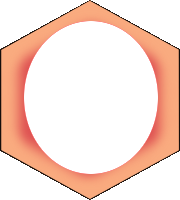
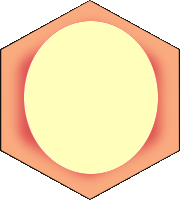
ミニマップボックスの修正
ミニマップボックスの描画を縮小表示する方法からミニマップ用の別の画像を描画する方法に変更
ユニット（味方ユニットが白丸で敵ユニットが茶色丸）を描画

diff --git a/cellgame/Map.cs b/cellgame/Map.cs
@@ -48,36 +48,47 @@ namespace CommonPart {
             }
         }
         // ミニマップの描画
-        public void DrawMinimap(Drawing d, Vector camera, int Scale, Depth depth, int sizeX, int sizeY, Vector position)
+        public void DrawMinimap(Drawing d, UnitManager um, Vector camera, Depth depth, Depth depth2, int sizeX, int sizeY, Vector position)
         {
-            for (int i = Math.Max(0, (int)(camera.X - DataBase.HexWidth * 3 / 2 * DataBase.MapScale[Scale]) / DataBase.HexWidth); i < DataBase.MAP_MAX && ((DataBase.HexWidth * i - camera.X) * DataBase.MapScale[Scale] - DataBase.HexWidth * 3 / 2 * DataBase.MapScale[Scale] <= sizeX); i++)
+            const int mini_hexwidth = 18, mini_hexheight = 20;
+            for (int i = Math.Max(0, (int)(camera.X - mini_hexwidth * 3 / 2) / DataBase.HexWidth - 1); i < DataBase.MAP_MAX && ((DataBase.HexWidth * i - camera.X) * DataBase.MapScale[0] - mini_hexwidth * 3 / 2 <= sizeX); i++)
             {
-                for (int j = Math.Max(0, (int)(camera.Y - DataBase.HexHeight * DataBase.MapScale[Scale]) / (DataBase.HexHeight * 3 / 4)); j < DataBase.MAP_MAX && (DataBase.HexHeight * 3 / 4 * j - camera.Y) * DataBase.MapScale[Scale] <= sizeY; j++)
+                for (int j = Math.Max(0, (int)(camera.Y - mini_hexheight) / (DataBase.HexHeight * 3 / 4)); j < DataBase.MAP_MAX && (DataBase.HexHeight * 3 / 4 * j - camera.Y) * DataBase.MapScale[0] <= sizeY; j++)
                 {
-                    Vector drawp = DataBase.WhereDisp(i, j, camera, Scale);
-                    Rectangle rect = new Rectangle(0, 0, DataBase.HexWidth, DataBase.HexHeight);
+                    Vector drawp = DataBase.WhereDisp(i, j, camera, 0);
+                    Rectangle rect = new Rectangle(0, 0, mini_hexwidth, mini_hexheight);
                     if (drawp.X < 0)
                     {
-                        rect.X = Math.Min((int)(-drawp.X / DataBase.MapScale[Scale]), rect.Width);
+                        rect.X = Math.Min((int)(-drawp.X), rect.Width);
                         rect.Width -= rect.X;
                     }
-                    if (drawp.X > sizeX - DataBase.HexWidth * DataBase.MapScale[Scale])
+                    if (drawp.X > sizeX - mini_hexwidth)
                     {
-                        rect.Width = Math.Max((int)((sizeX - drawp.X) / DataBase.MapScale[Scale]) - rect.X, 0);
+                        rect.Width = Math.Max((int)((sizeX - drawp.X)) - rect.X, 0);
                     }
-                    drawp.X += rect.X * DataBase.MapScale[Scale];
+                    drawp.X += rect.X;
                     if (drawp.Y < 0)
                     {
-                        rect.Y = Math.Min((int)(-drawp.Y / DataBase.MapScale[Scale]), rect.Height);
+                        rect.Y = Math.Min((int)(-drawp.Y), rect.Height);
                         rect.Height -= rect.Y;
                     }
-                    if (drawp.Y > sizeY - DataBase.HexHeight * DataBase.MapScale[Scale])
+                    if (drawp.Y > sizeY - mini_hexheight)
                     {
-                        rect.Height = Math.Max((int)((sizeY - drawp.Y) / DataBase.MapScale[Scale]) - rect.Y, 0);
+                        rect.Height = Math.Max((int)((sizeY - drawp.Y)) - rect.Y, 0);
                     }
-                    drawp.Y += rect.Y * DataBase.MapScale[Scale];
+                    drawp.Y += rect.Y;
                     if (rect.Width > 0 && rect.Height > 0)
-                        d.Draw(new Vector(position.X + drawp.X, position.Y + drawp.Y), DataBase.hex_tex[Data[i, j]], rect, depth, (float)DataBase.MapScale[Scale]);
+                    {
+                        d.Draw(new Vector(position.X + drawp.X, position.Y + drawp.Y), DataBase.mini_hex_tex[Data[i, j]], rect, depth);
+                        if (um.FindType(i, j) > 0)
+                        {
+                            d.Draw(new Vector(position.X + drawp.X, position.Y + drawp.Y), DataBase.miniUnit_tex[0], rect, depth2);
+                        }
+                        else if (um.FindType(i, j) < 0)
+                        {
+                            d.Draw(new Vector(position.X + drawp.X, position.Y + drawp.Y), DataBase.miniUnit_tex[1], rect, depth2);
+                        }
+                    }
                 }
             }
         }

diff --git a/cellgame/Scenes/PlayScene.cs b/cellgame/Scenes/PlayScene.cs
@@ -14,9 +14,8 @@ namespace CommonPart {
     class PlayScene : Scene {
         #region Variable
         // ボックスウィンドウ（ユニットボックスとか）
-        ArrangeBar arrangeBar;
+        ProductArrangeBar proarrBar;
         MinimapBox minimapBox;
-        ProductBox productBox;
         StatusBar statusBar;
         StudyBar studyBar;
         UnitBox unitBox;
@@ -74,8 +73,7 @@ namespace CommonPart {
             unitBox = new UnitBox();
             minimapBox = new MinimapBox();
             statusBar = new StatusBar(studyPower, PP, maxPP, leftUnit, bodyTemp);
-            arrangeBar = new ArrangeBar();
-            productBox = new ProductBox();
+            proarrBar = new ProductArrangeBar();
         }
 
         // 画面上の座標(x, y)がどのへクスの上にあるか どのへクスの上にもなければ(0, -1)を返す バーの上にある場合は(-1, 0)を返す
@@ -85,8 +83,7 @@ namespace CommonPart {
                 unitBox.IsOn(x, y) ||
                 minimapBox.IsOn(x, y) ||
                 statusBar.IsOn(x, y) ||
-                arrangeBar.IsOn(x, y) ||
-                productBox.IsOn(x, y)) return new PAIR(-1, 0);
+                proarrBar.IsOn(x, y)) return new PAIR(-1, 0);
             
             for (int i = 0; i < DataBase.MAP_MAX; i++)
                 for (int j = 0; j < DataBase.MAP_MAX; j++)
@@ -148,11 +145,10 @@ namespace CommonPart {
             um.Draw(d, Camera, Scale);
             // それぞれのバーの描画
             studyBar.Draw(d);
-            minimapBox.Draw(d, nMap, Camera, Scale);
+            minimapBox.Draw(d, um, nMap, Camera, Scale);
             statusBar.Draw(d);
-            arrangeBar.Draw(d);
+            proarrBar.Draw(d);
             unitBox.Draw(d);
-            productBox.Draw(d);
         }
         public override void SceneUpdate() {
             // 現在のマウスの状態を取得
@@ -176,14 +172,13 @@ namespace CommonPart {
             unitBox.Update(um, nMap, this, pstate, state);
             minimapBox.Update();
             statusBar.Update(studyPower, PP, maxPP, leftUnit, bodyTemp);
-            arrangeBar.Update();
-            productBox.Update();
+            proarrBar.Update(pstate, state);
 
             // ユニットの更新
             um.Update(unitBox);
 
             // カーソルの形状を変化
-            if (unitBox.IsOnButton(state.X, state.Y) || arrangeBar.IsOnButton(state.X, state.Y) || productBox.IsOnButton(state.X, state.Y))
+            if (unitBox.IsOnButton(state.X, state.Y) || proarrBar.IsOnButton(state.X, state.Y))
                 System.Windows.Forms.Cursor.Current = System.Windows.Forms.Cursors.Hand;
             else
                 System.Windows.Forms.Cursor.Current = System.Windows.Forms.Cursors.Arrow;

diff --git a/cellgame/Boxes/ProductArrangeBar.cs b/cellgame/Boxes/ProductArrangeBar.cs
@@ -1,0 +1,57 @@
+using System;
+using System.Collections.Generic;
+using System.Linq;
+using System.Text;
+using System.Threading.Tasks;
+using Microsoft.Xna.Framework;
+using Microsoft.Xna.Framework.Input;
+
+namespace CommonPart
+{
+    class ProductArrangeBar : WindowBar
+    {
+        #region Variable
+        ProductBox productBox;
+        ArrangeBox arrangeBox;
+        #endregion
+        #region Method
+        public ProductArrangeBar()
+            : base(DataBase.BarPos[4], DataBase.BarWidth[4], DataBase.BarHeight[4]) {
+            productBox = new ProductBox();
+            arrangeBox = new ArrangeBox();
+        }
+        public void Update(MouseState pstate, MouseState state)
+        {
+            base.Update();
+            if(pstate.LeftButton == ButtonState.Released && state.LeftButton == ButtonState.Pressed)
+            {
+                if (state.X >= windowPosition.X && state.X <= windowPosition.X +width / 2 * 16 && state.Y >= windowPosition.Y && state.Y <= windowPosition.Y + height * 16)
+                {// 左のボタンをクリック
+                    productBox.Show();
+                    arrangeBox.Hide();
+                }
+                else if(state.X >= windowPosition.X + width / 2 * 16 && state.X <= windowPosition.X + width * 16 && state.Y >= windowPosition.Y && state.Y <= windowPosition.Y + height * 16)
+                {// 右のボタンをクリック
+                    arrangeBox.Show();
+                    productBox.Hide();
+                }
+                else if (!IsOn(state.X, state.Y))
+                {
+                    arrangeBox.Hide();
+                    productBox.Hide();
+                }
+            }
+        }
+        public override bool IsOn(int x, int y)
+        {
+            return base.IsOn(x, y) || productBox.IsOn(x, y) || arrangeBox.IsOn(x, y);
+        }
+        public override void Draw(Drawing d)
+        {
+            base.Draw(d);
+            productBox.Draw(d);
+            arrangeBox.Draw(d);
+        }
+        #endregion
+    }// class end
+}// namespace end

diff --git a/cellgame/Boxes/MinimapBox.cs b/cellgame/Boxes/MinimapBox.cs
@@ -14,7 +14,7 @@ namespace CommonPart
         #region Method
         public MinimapBox()
             : base(DataBase.BarPos[2], DataBase.BarWidth[2], DataBase.BarHeight[2]) { }
-        public void Draw(Drawing d, Map nMap, Vector Camera, int Scale)
+        public void Draw(Drawing d, UnitManager um, Map nMap, Vector Camera, int Scale)
         {
             // ボックスの背景の表示
             base.Draw(d);
@@ -22,14 +22,14 @@ namespace CommonPart
             // ボックスの中身の表示
             if (showing)
             {
-                int sizeX = width * 16 - 19, sizeY = height * 16 - 4;
-                Vector dposition = new Vector(windowPosition.X + 17, windowPosition.Y + 2);
+                int sizeX = width * 16 - 19, sizeY = height * 16 - 5;
+                Vector dposition = new Vector(windowPosition.X + 17, windowPosition.Y + 3);
                 Vector dcamera = new Vector(Camera.X + Game1._WindowSizeX / DataBase.MapScale[Scale] / 2 - sizeX / DataBase.MapScale[0] / 2,
                                          Camera.Y + Game1._WindowSizeY / DataBase.MapScale[Scale] / 2 - sizeY / DataBase.MapScale[0] / 2);
-                nMap.DrawMinimap(d, dcamera, 0, DepthID.StateFront, sizeX, sizeY, dposition);
+                nMap.DrawMinimap(d, um, dcamera, DepthID.StateFront, DepthID.Message, sizeX, sizeY, dposition);
 
                 BoxFrame bf = new BoxFrame(new Vector(Game1._WindowSizeX / DataBase.MapScale[Scale] * DataBase.MapScale[0], Game1._WindowSizeY / DataBase.MapScale[Scale] * DataBase.MapScale[0]), Color.Black);
-                bf.Draw(d, dposition + new Vector((Camera.X - dcamera.X) * DataBase.MapScale[0], (Camera.Y - dcamera.Y) * DataBase.MapScale[0]), DepthID.Message);
+                bf.Draw(d, dposition + new Vector((Camera.X - dcamera.X) * DataBase.MapScale[0], (Camera.Y - dcamera.Y) * DataBase.MapScale[0]), DepthID.Effect);
             }
         }
         public override void Update()

diff --git a/cellgame/Game1.cs b/cellgame/Game1.cs
@@ -74,9 +74,12 @@ namespace CommonPart
             spriteBatch = new SpriteBatch(GraphicsDevice);
 
             // へクス画像の読み込み
+            DataBase.mini_hex_tex = new List<Texture2D>();
             DataBase.hex_tex = new List<Texture2D>();
             for (int i = 0; i < 5; i++)
                 DataBase.hex_tex.Add(Content.Load<Texture2D>(string.Format("hex/hex{0}.png", i)));
+            for (int i = 0; i < 5; i++)
+                DataBase.mini_hex_tex.Add(Content.Load<Texture2D>(string.Format("hex/mini_hex{0}.png", i)));
 
             // 選択されたへクスの画像の読み込み
             DataBase.select_tex = Content.Load<Texture2D>("hex/select.png");
@@ -97,12 +100,15 @@ namespace CommonPart
                 DataBase.box_frame_tex.Add(Content.Load<Texture2D>(string.Format("box/box_frame{0}.png", i)));
 
             // ユニットの画像読み込み
+            DataBase.miniUnit_tex = new List<Texture2D>();
             DataBase.myUnit_tex = new List<Texture2D>();
             DataBase.enemyUnit_tex = new List<Texture2D>();
+            for (int i = 0; i < 2; i++)
+                DataBase.miniUnit_tex.Add(Content.Load<Texture2D>(string.Format("unit/miniUnit{0}.png", i)));
             for (int i = 0; i < 9; i++)
-                DataBase.myUnit_tex.Add(Content.Load<Texture2D>(string.Format("my_unit/myUnit{0}.png", i)));
+                DataBase.myUnit_tex.Add(Content.Load<Texture2D>(string.Format("unit/myUnit{0}.png", i)));
             for (int i = 0; i < 5; i++)
-                DataBase.enemyUnit_tex.Add(Content.Load<Texture2D>(string.Format("enemy_unit/enemyUnit{0}.png", i)));
+                DataBase.enemyUnit_tex.Add(Content.Load<Texture2D>(string.Format("unit/enemyUnit{0}.png", i)));
 
             // TODO: use this.Content to load your game content here
             TextureManager.Load(Content);

diff --git a/cellgame/Boxes/ProductBox.cs b/cellgame/Boxes/ProductBox.cs
@@ -3,6 +3,7 @@ using System.Collections.Generic;
 using System.Linq;
 using System.Text;
 using System.Threading.Tasks;
+using Microsoft.Xna.Framework;
 
 namespace CommonPart
 {
@@ -26,6 +27,42 @@ namespace CommonPart
         public bool IsOn(int x, int y)
         {
             return showing  && base.IsOn(x, y);
+        }
+        public override void Draw(Drawing d)
+        {
+            if (showing)
+            {
+                base.Draw(d);
+                for(int i = 0; i < 9; i++)
+                {
+                    new TextAndFont(DataBase.MyUnitName[i], FontID.Medium, Color.Black).Draw(d, windowPosition + new Vector(10, 10 + 30 * i), DepthID.Message);
+                }
+            }
+        }
+        #endregion
+    }// class end
+
+    class ArrangeBox : WindowBar
+    {
+        #region Variable
+        bool showing = false;
+        #endregion
+        #region Method
+        public ArrangeBox()
+            : base(DataBase.BarPos[5], DataBase.BarWidth[5], DataBase.BarHeight[5])
+        {
+        }
+        public void Show()
+        {
+            showing = true;
+        }
+        public void Hide()
+        {
+            showing = false;
+        }
+        public bool IsOn(int x, int y)
+        {
+            return showing && base.IsOn(x, y);
         }
         public override void Draw(Drawing d)
         {

diff --git a/cellgame/Datas/DataBase.cs b/cellgame/Datas/DataBase.cs
@@ -21,6 +21,7 @@ namespace CommonPart {
 
         #region Map
         // へクス画像のリスト
+        public static List<Texture2D> mini_hex_tex;
         public static List<Texture2D> hex_tex;
         public static Texture2D select_tex;
         // マップのサイズは MAP_MAX × MAP_MAX
@@ -57,6 +58,7 @@ namespace CommonPart {
 
         #region Unit
         // ユニット画像のリスト
+        public static List<Texture2D> miniUnit_tex;
         public static List<Texture2D> myUnit_tex;
         public static List<Texture2D> enemyUnit_tex;
         // ユニットの名前

diff --git a/cellgame/Workers/UnitManager.cs b/cellgame/Workers/UnitManager.cs
@@ -325,6 +325,11 @@ namespace CommonPart
         {
             return unitMap[x_index + (y_index + 1) / 2, y_index];
         }
+        // マップの座標(i,j)のユニットの種類
+        public UnitType FindType(int x_index, int y_index)
+        {
+            return unitMap[x_index + (y_index + 1) / 2, y_index].type;
+        }
         #endregion
     }// class end
 }// namespace end

diff --git a/cellgame/Boxes/UnitBox.cs b/cellgame/Boxes/UnitBox.cs
@@ -17,6 +17,7 @@ namespace CommonPart
         #region Method
         public UnitBox()
             : base(DataBase.BarPos[1], DataBase.BarWidth[1], DataBase.BarHeight[1]) {
+            u = new Unit(UnitType.NULL);
         }
         public override void Draw(Drawing d)
         {

diff --git a/cellgame/Boxes/WindowBar.cs b/cellgame/Boxes/WindowBar.cs
@@ -16,7 +16,7 @@ namespace CommonPart {
         // 描画する位置（左上）の座標
         public Vector windowPosition;
         // 横と縦のマス目(16x16)の数
-        int width, height;
+        protected int width, height;
         
         #endregion
 
